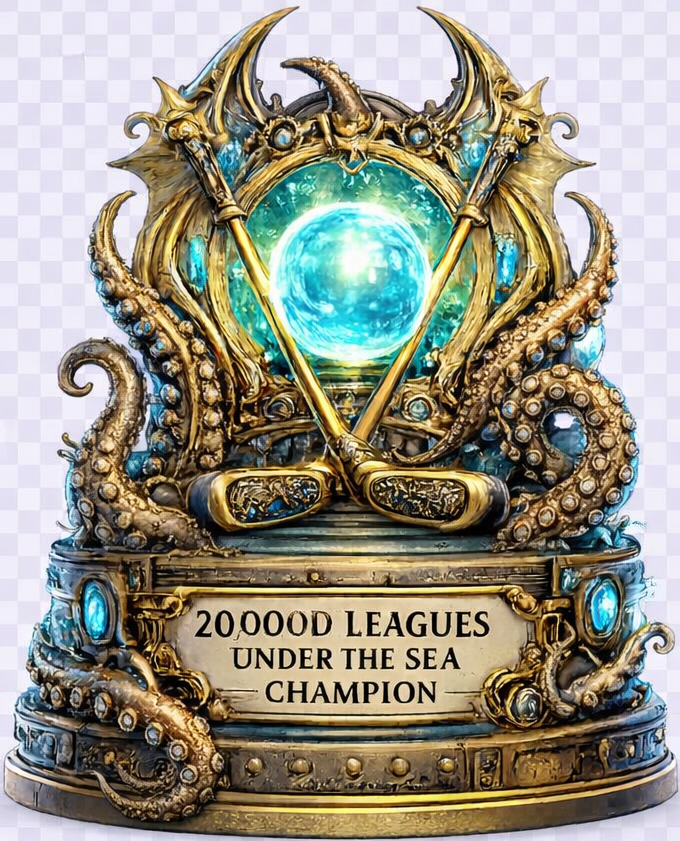
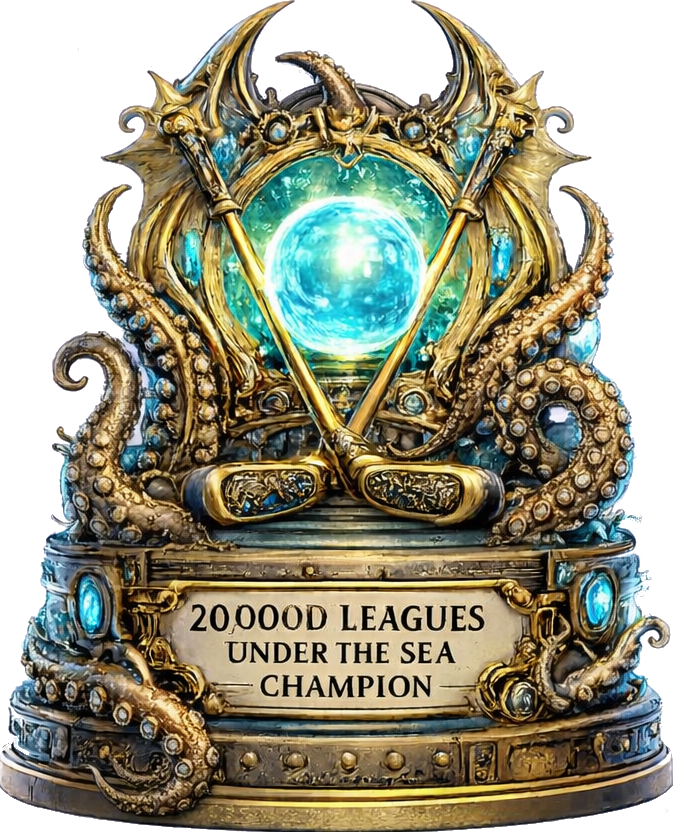
Update hard trophies and add themed backgrounds to trophy gallery
- Update trophy images for 20000 Leagues Under the Sea and 8-bit Lair (hard)
- Add unique gradient backgrounds for each trophy based on course theme
- Backgrounds use colors that complement each course's visual style

🤖 Generated with [Claude Code](https://claude.com/claude-code)

diff --git a/templates/trophies.html b/templates/trophies.html
@@ -16,7 +16,7 @@
         {% if trophy.has_trophy %}
         <div class="col-12 col-sm-6">
             <div class="trophy-display-card">
-                <div class="trophy-img-wrapper">
+                <div class="trophy-img-wrapper" style="background: {{ trophy.background }};">
                     <img src="{{ url_for('static', filename='uploads/trophies/' ~ trophy.trophy_subdir ~ '/' ~ trophy.trophy_filename) }}"
                          alt="{{ trophy.course_name }} Trophy"
                          class="trophy-img">

diff --git a/routes/main_routes.py b/routes/main_routes.py
@@ -179,6 +179,49 @@ def trophies():
     def course_to_trophy_name(course_name):
         return course_name.replace("'", "").replace(",", "").replace(" ", "_")
 
+    # Trophy background gradients based on course themes
+    trophy_backgrounds = {
+        "20000 Leagues Under the Sea": "linear-gradient(135deg, #0c2340 0%, #1a5276 50%, #21618c 100%)",
+        "8-bit Lair": "linear-gradient(135deg, #2d1b4e 0%, #6b2d5b 50%, #9b4dca 100%)",
+        "Alfheim": "linear-gradient(135deg, #1e3c2f 0%, #2d5a3f 50%, #4a7c59 100%)",
+        "Alice's Adventures in Wonderland": "linear-gradient(135deg, #4a1259 0%, #7b2d8e 50%, #d4a5d9 100%)",
+        "Arizona Modern": "linear-gradient(135deg, #8b4513 0%, #cd5c5c 50%, #f4a460 100%)",
+        "Around the World in 80 Days": "linear-gradient(135deg, #1a365d 0%, #2c5282 50%, #d4af37 100%)",
+        "Atlantis": "linear-gradient(135deg, #005577 0%, #008b8b 50%, #40e0d0 100%)",
+        "Bogey's Bonanza": "linear-gradient(135deg, #1e4d2b 0%, #2e7d32 50%, #4caf50 100%)",
+        "Cherry Blossom": "linear-gradient(135deg, #8b4557 0%, #d87093 50%, #ffb7c5 100%)",
+        "Crystal Lair": "linear-gradient(135deg, #1a1a2e 0%, #4a69bd 50%, #a8d8ea 100%)",
+        "El Dorado": "linear-gradient(135deg, #8b6914 0%, #d4af37 50%, #ffd700 100%)",
+        "Forgotten Fairyland": "linear-gradient(135deg, #2d4a3e 0%, #6b4984 50%, #9370db 100%)",
+        "Gardens of Babylon": "linear-gradient(135deg, #2e4a1e 0%, #4a7023 50%, #8fbc8f 100%)",
+        "Holiday Hideaway": "linear-gradient(135deg, #8b0000 0%, #228b22 50%, #ff6347 100%)",
+        "Ice Lair": "linear-gradient(135deg, #1c3f5f 0%, #5dade2 50%, #e8f4f8 100%)",
+        "Journey to the Center of the Earth": "linear-gradient(135deg, #4a2511 0%, #8b4513 50%, #cd5c5c 100%)",
+        "Labyrinth": "linear-gradient(135deg, #3d3d3d 0%, #6b6b6b 50%, #d4af37 100%)",
+        "Laser Lair": "linear-gradient(135deg, #1a0a2e 0%, #00ff00 50%, #ff00ff 100%)",
+        "Mars Garden": "linear-gradient(135deg, #4a1a0a 0%, #8b3a2f 50%, #cd5c5c 100%)",
+        "Meow Wolf": "linear-gradient(135deg, #ff006e 0%, #8338ec 50%, #3a86ff 100%)",
+        "Mount Olympus": "linear-gradient(135deg, #2c3e50 0%, #f5f5dc 50%, #d4af37 100%)",
+        "Myst": "linear-gradient(135deg, #1a2a3a 0%, #34495e 50%, #5d6d7e 100%)",
+        "Original Gothic": "linear-gradient(135deg, #1a1a2e 0%, #2d2d44 50%, #4a3f5c 100%)",
+        "Quixote Valley": "linear-gradient(135deg, #8b4513 0%, #d2691e 50%, #f4a460 100%)",
+        "Raptor Cliffs": "linear-gradient(135deg, #3d2914 0%, #5d4e37 50%, #8fbc8f 100%)",
+        "Seagull Stacks": "linear-gradient(135deg, #1e3a5f 0%, #4682b4 50%, #f5deb3 100%)",
+        "Shangri-La": "linear-gradient(135deg, #4a0e0e 0%, #8b0000 50%, #d4af37 100%)",
+        "Sweetopia": "linear-gradient(135deg, #ff69b4 0%, #da70d6 50%, #ffb6c1 100%)",
+        "Temple at Zerzura": "linear-gradient(135deg, #8b7355 0%, #d4a574 50%, #f4e4c1 100%)",
+        "Tethys Station": "linear-gradient(135deg, #0a0a1a 0%, #1a1a4a 50%, #4169e1 100%)",
+        "Tiki-a-Coco": "linear-gradient(135deg, #d2691e 0%, #ff8c00 50%, #20b2aa 100%)",
+        "Tokyo": "linear-gradient(135deg, #1a1a2e 0%, #ff1493 50%, #ff6b6b 100%)",
+        "Tourist Trap": "linear-gradient(135deg, #006400 0%, #228b22 50%, #00ced1 100%)",
+        "Upside Town": "linear-gradient(135deg, #4a0080 0%, #8000ff 50%, #00ffff 100%)",
+        "Venice": "linear-gradient(135deg, #1e3d59 0%, #4682b4 50%, #d2691e 100%)",
+        "Viva Las Elvis": "linear-gradient(135deg, #4a0e0e 0%, #d4af37 50%, #ff4500 100%)",
+        "Wallace & Gromit": "linear-gradient(135deg, #3d2b1f 0%, #228b22 50%, #daa520 100%)",
+        "Widow's Walkabout": "linear-gradient(135deg, #1a0a1a 0%, #4a0e4a 50%, #800080 100%)",
+    }
+    default_background = "linear-gradient(135deg, #f8f9fa 0%, #e9ecef 100%)"
+
     # Check which courses have trophy images (normal and hard)
     normal_trophy_dir = os.path.join('static', 'uploads', 'trophies', 'normal')
     hard_trophy_dir = os.path.join('static', 'uploads', 'trophies', 'hard')
@@ -200,12 +243,16 @@ def trophies():
             has_trophy = trophy_filename in normal_trophy_files
             trophy_subdir = 'normal'
 
+        # Get background for this trophy (use base name without HARD)
+        background = trophy_backgrounds.get(base_name, default_background)
+
         course_trophies.append({
             'course_id': course['id'],
             'course_name': course['name'],  # Keep HARD in name for display
             'trophy_filename': trophy_filename,
             'trophy_subdir': trophy_subdir,
-            'has_trophy': has_trophy
+            'has_trophy': has_trophy,
+            'background': background
         })
 
     # Sort by course name
